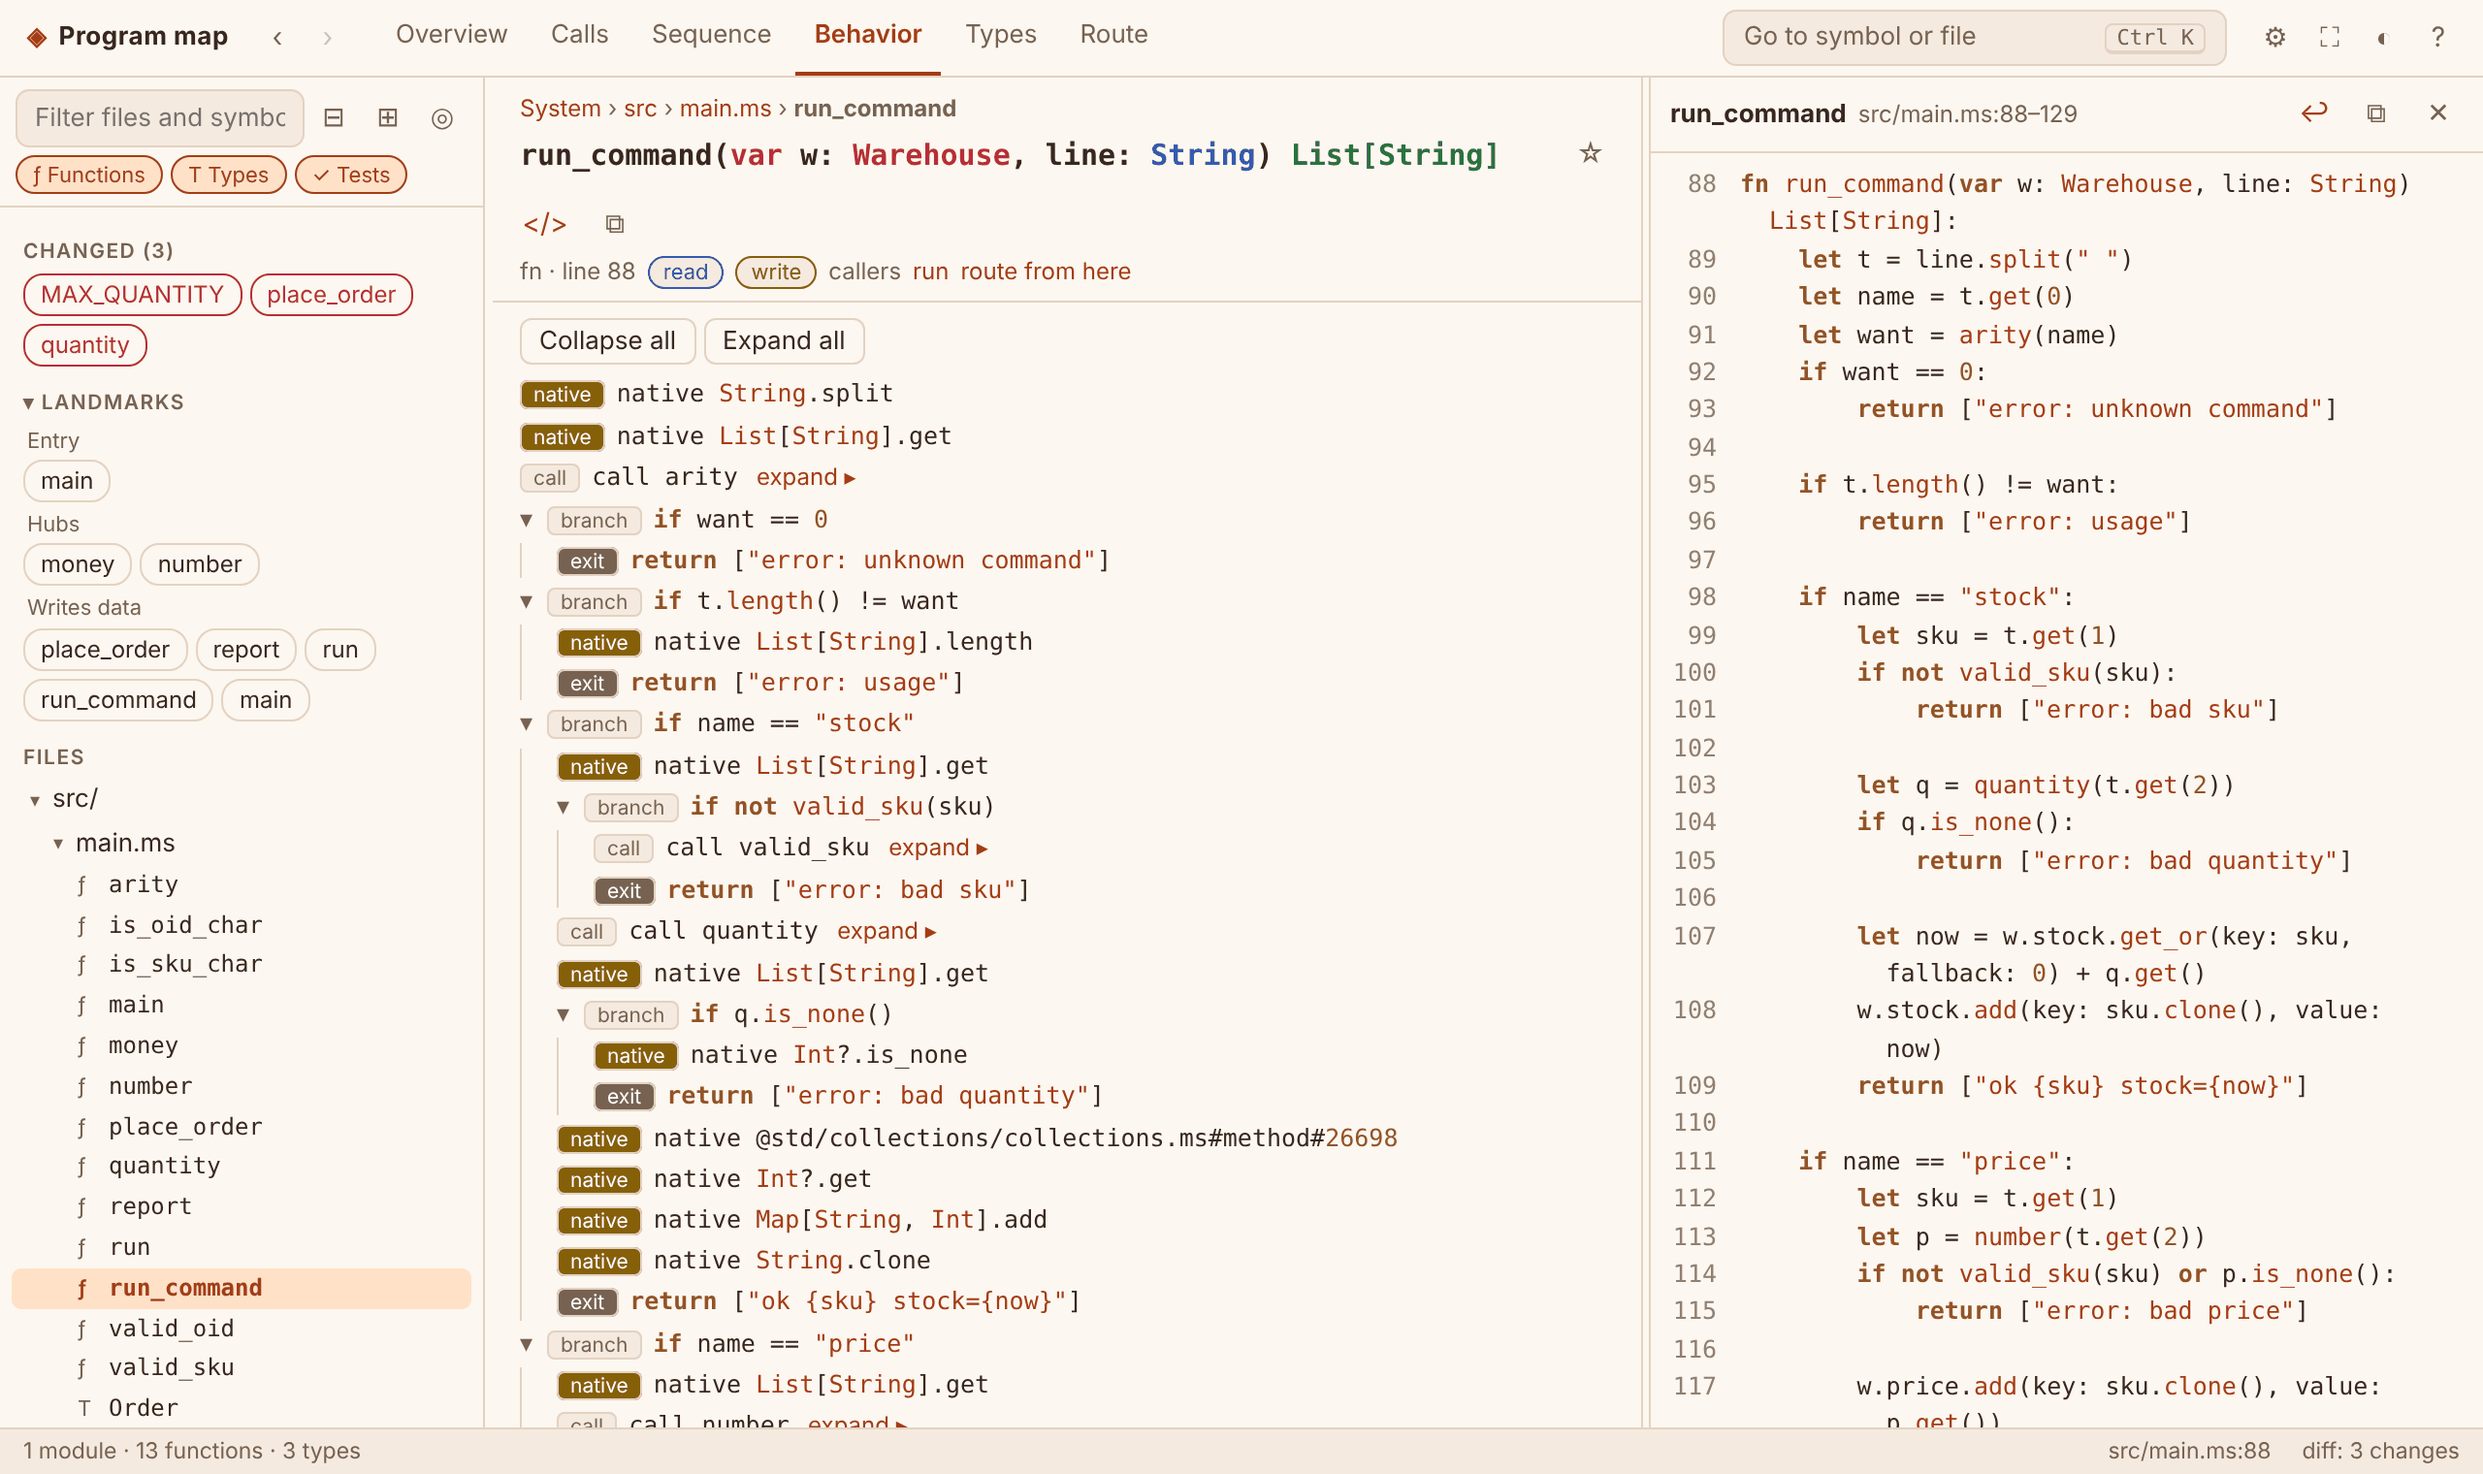
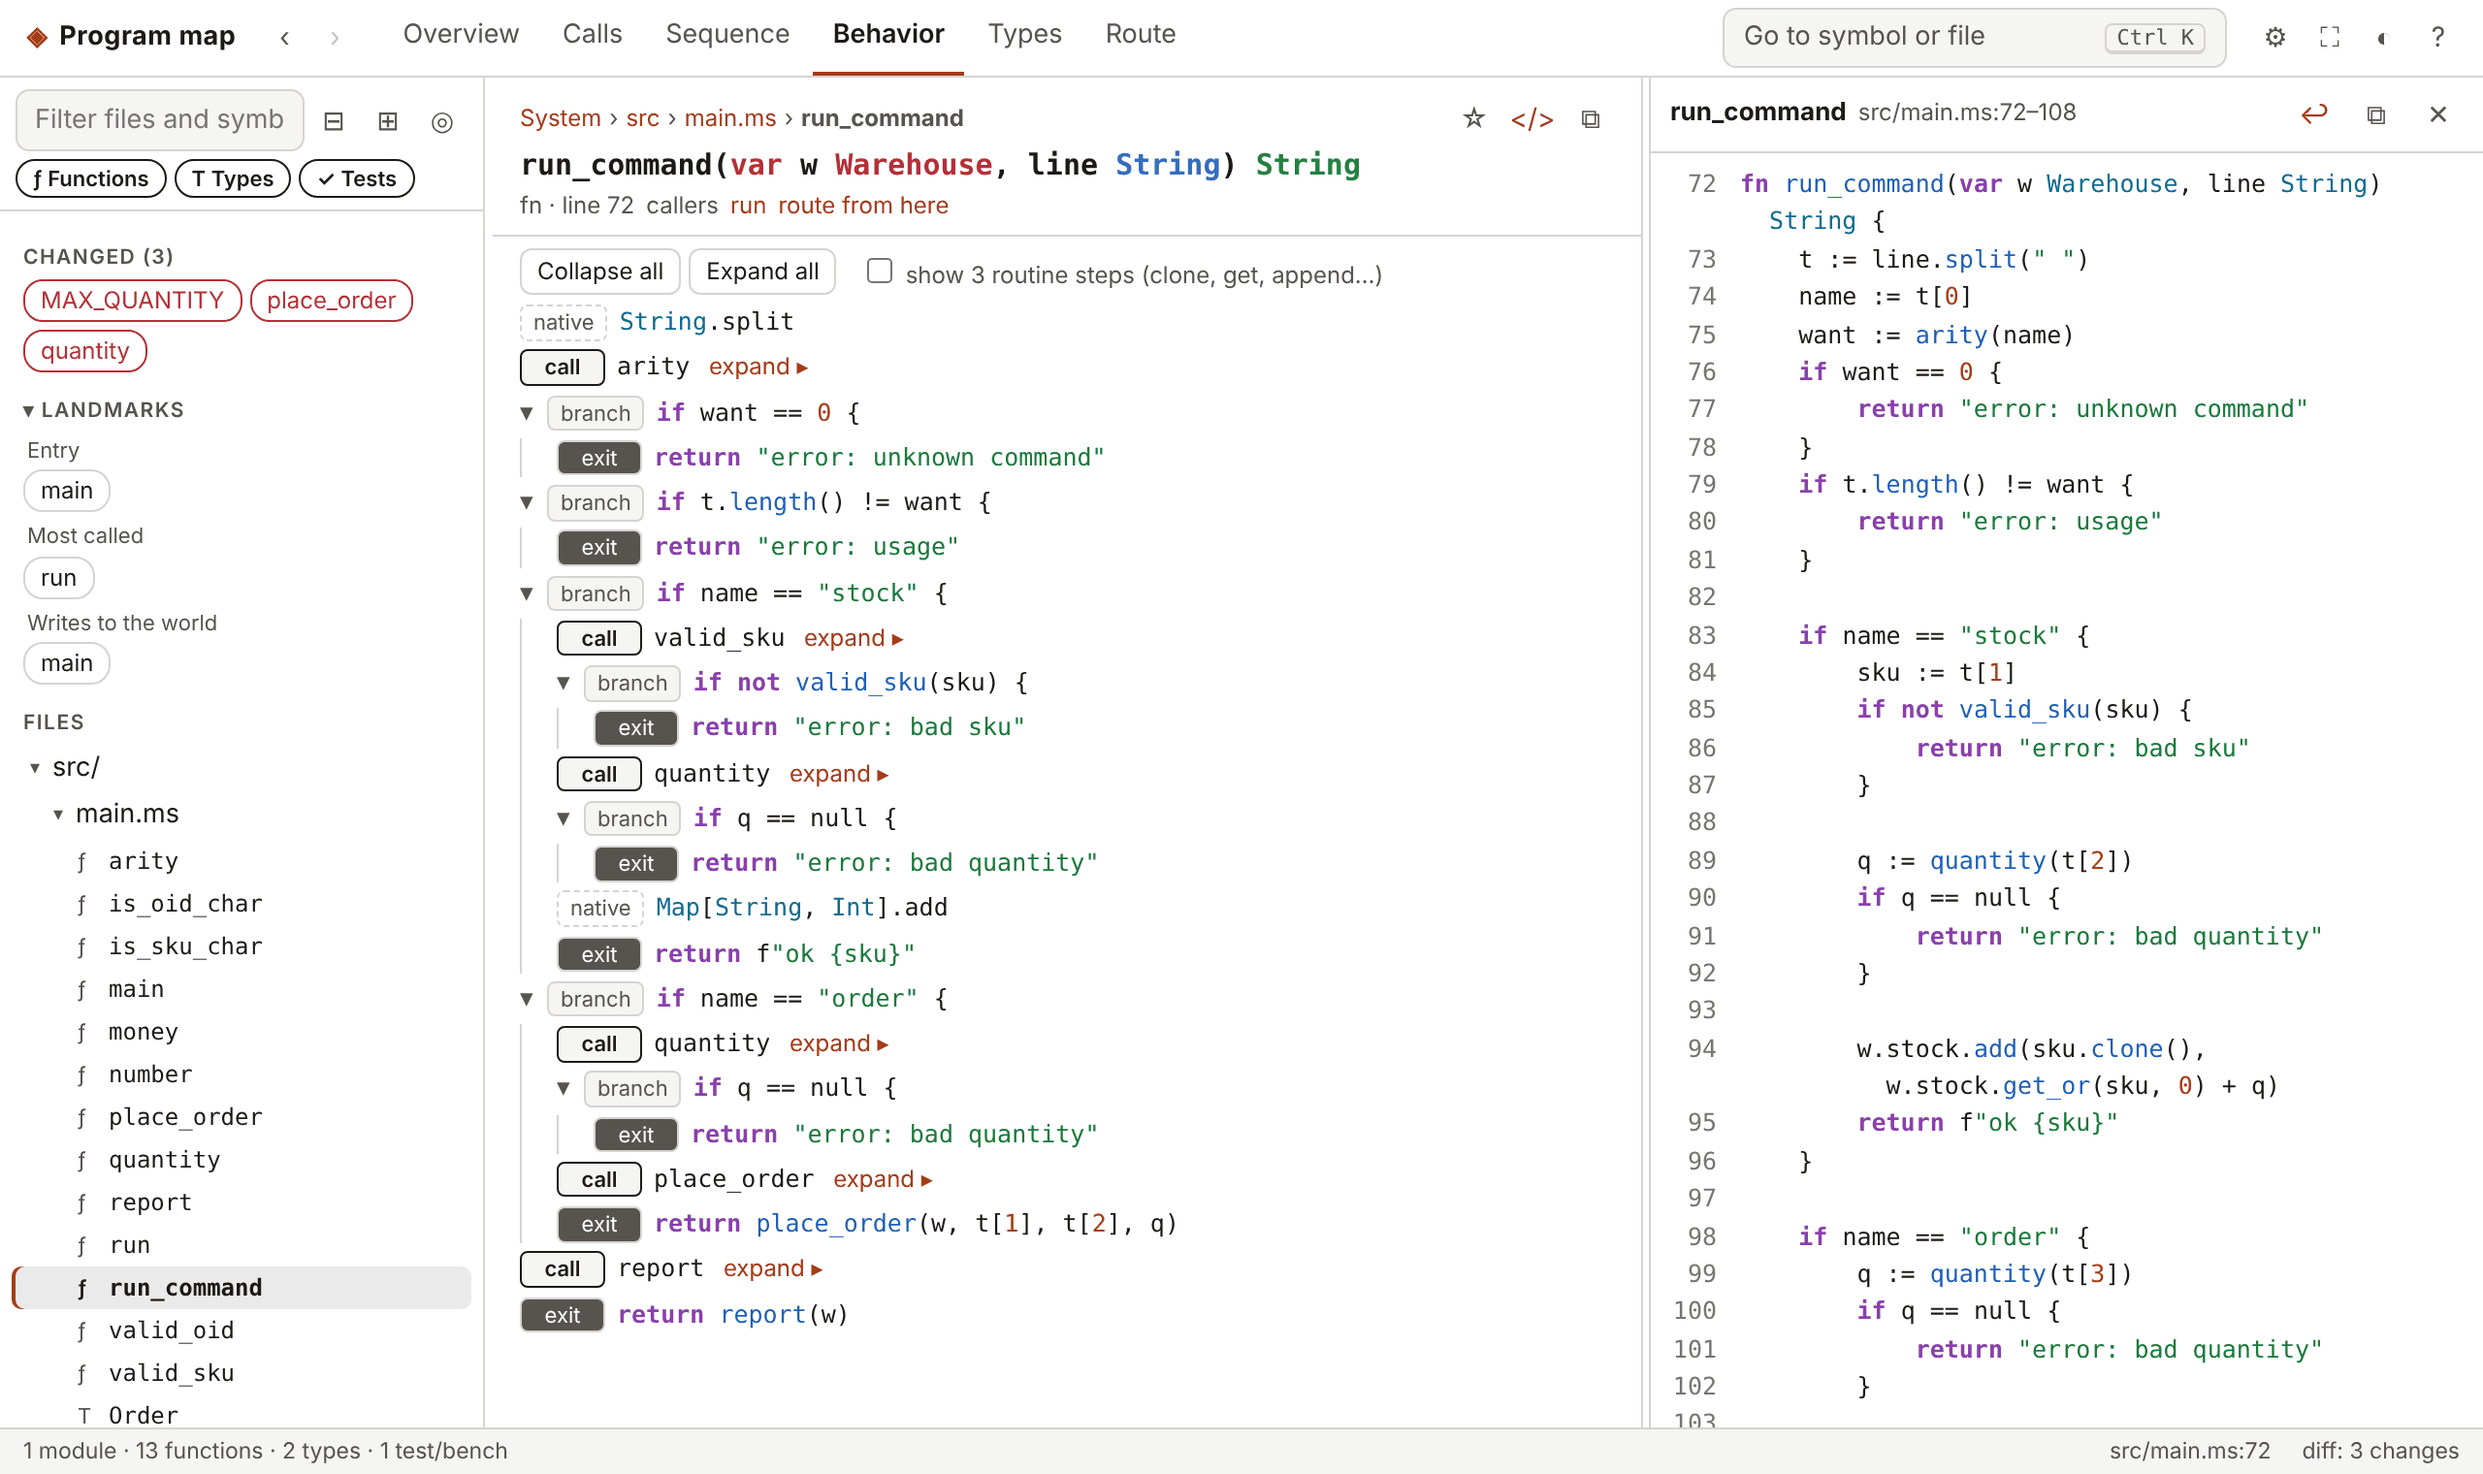
Show brace syntax in the code map and its screenshots (#6914)
* Regenerate the home screencast for brace syntax

The sources already use braces; the shipped GIF still showed colon blocks.
The script now expands tabs so formatted sources render as indentation.

Claude-Session: https://claude.ai/code/session_013KnEKEwnns5hKA7yKnbhYq

* Show brace syntax in the code map and its home-page screenshots

The code map's HTML page printed signatures and type fields as `name: Type`
and drew tab-indented source with the wrong indent. It now writes `name Type`
and expands leading tabs. The screenshots are regenerated from a sample project
kept in website/screenshots/codemap so they can be rebuilt.

Claude-Session: https://claude.ai/code/session_013KnEKEwnns5hKA7yKnbhYq

---------

diff --git a/src/tooling/data/page.html b/src/tooling/data/page.html
@@ -187,7 +187,7 @@ const fx=e=>e.effects;
 const byFile=Object.create(null);for(const e of D.entities)(byFile[e.file]=byFile[e.file]||[]).push(e);
 function sigOf(e){
   if(!isFn(e)){const kw=e.kind==='interface'?'interface':e.kind==='type'?'type':e.kind==='alternative'?'enum':e.kind;return '<code><span class="tk-kw">'+esc(kw)+'</span> '+esc(e.name)+'</code>'}
-  const ps=e.slots.map(s=>(s.var?'<span class="var">var </span>':'')+esc(s.name)+': '+ownershipSpan(s)).join(', ');
+  const ps=e.slots.map(s=>(s.var?'<span class="var">var </span>':'')+esc(s.name)+' '+ownershipSpan(s)).join(', ');
   return '<code>'+esc(e.name)+'('+ps+') '+(e.result?ownershipSpan(e.result):'')+'</code>';
 }
 function ownershipSpan(s){const mode=s.ownership;
@@ -423,10 +423,10 @@ function calls(){
 function types(){
   const nodes={},edges=[];let n=0;const roots=S.sel&&E[S.sel]?[E[S.sel]]:D.entities.filter(e=>isType(e)&&(!S.mod||e.file===S.mod)).slice(0,30);
   const seen={};const add=x=>{if(seen[x.key]||n>=40)return;seen[x.key]=1;n++;if(!nodes[x.key])nodes[x.key]={code:1,id:x.key,title:(x.kind==='interface'?'interface ':x.kind==='type'?'type ':x.kind==='alternative'?'enum ':'')+x.name,cls:'cls',kind:'type',
-    lines:x.slots.map(s=>x.kind==='type'?s.name+': '+s.ty:x.kind==='alternative'?s.name+s.ty:'fn '+s.name+s.ty).slice(0,8)};
+    lines:x.slots.map(s=>x.kind==='type'?s.name+' '+s.ty:x.kind==='alternative'?s.name+s.ty:'fn '+s.name+s.ty).slice(0,8)};
     x.slots.forEach(s=>s.refs.forEach(r=>{const t=E[r];if(t){add(t);if(nodes[r])edges.push({from:x.key,to:r,label:s.name})}}));
     if(x.result)x.result.refs.forEach(r=>{const t=E[r];if(t){add(t);if(nodes[r])edges.push({from:x.key,to:r,label:'returns'})}})};
-  roots.forEach(r=>{if(isFn(r)){nodes[r.key]={code:1,id:r.key,title:'fn '+r.name,cls:'cls',lines:r.slots.map(s=>(s.var?'var ':'')+s.name+': '+s.ty)}}add(r)});
+  roots.forEach(r=>{if(isFn(r)){nodes[r.key]={code:1,id:r.key,title:'fn '+r.name,cls:'cls',lines:r.slots.map(s=>(s.var?'var ':'')+s.name+' '+s.ty)}}add(r)});
   const list=Object.values(nodes);if(!list.length)return empty('No types','Nothing to show for this selection.');
   const cur=S.sel&&E[S.sel];
   if(cur&&isFn(cur)&&!edges.length)return empty(cur.name+"'s signature uses only built-in types",'Parameter and result types are shown here. Open Behavior to see what the body does.');
@@ -515,7 +515,7 @@ function srcPanel(){
   const keep=box.scrollTop;hideTip();
   box.hidden=false;$('sp2').hidden=false;
   box.innerHTML='<div class="hd"><span class="t"><b>'+esc(e.name)+'</b>'+esc(e.file)+':'+e.first+'–'+(e.first+ls.length-1)+'</span><button class="ib'+(wrap?' on':'')+'" data-wrap="1" title="'+(wrap?'Wrapping lines (click for horizontal scroll)':'Scrolling sideways (click to wrap lines)')+'">↩</button><button class="ib" data-copy="1" title="Copy source">⧉</button><button class="ib" data-close="1" title="Hide source">✕</button></div><div class="code'+(wrap?' wrap':'')+'">'+
-    ls.map((l,i)=>{const ind=l.replace(/\t/g,'    ').length-l.replace(/\t/g,'    ').trimStart().length;return '<div class="r" data-ln="'+(e.first-1+i)+'"><span class="ln">'+(e.first+i)+'</span><span class="tx" style="--i:'+ind+'">'+(l?hl(l,true):'\u200b')+'</span></div>'}).join('')+'</div>';
+    ls.map((raw,i)=>{const l=raw.replace(/^\t+/,m=>'    '.repeat(m.length));const ind=l.replace(/\t/g,'    ').length-l.replace(/\t/g,'    ').trimStart().length;return '<div class="r" data-ln="'+(e.first-1+i)+'"><span class="ln">'+(e.first+i)+'</span><span class="tx" style="--i:'+ind+'">'+(l?hl(l,true):'\u200b')+'</span></div>'}).join('')+'</div>';
   box.scrollTop=keep}
 function route(){
   const cur=S.sel&&E[S.sel],from=S.from||(cur&&isFn(cur)&&!isCheck(cur)?S.sel:null);

diff --git a/website/screenshots/README.md b/website/screenshots/README.md
@@ -8,10 +8,10 @@ Screenshots live in `website/static/images/`, with a `-dark` variant next to eac
 
 Alt text is required and the path must start with `/images/`; the book build fails otherwise.
 
-Regenerate a code-map screenshot from a project:
+Regenerate the code-map screenshots from the sample project in `website/screenshots/codemap/` (`change.patch` turns its `before` state into the checked-in source):
 
 ```sh
-ms diagram ms.toml --format html --diff change.patch -o map.html
+ms diagram website/screenshots/codemap/ms.toml --format html --diff website/screenshots/codemap/change.patch -o map.html
 node website/screenshots/capture.cjs map.html run_command code-map Behavior Calls
 ```
 
